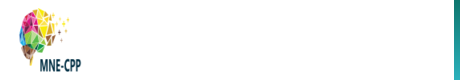
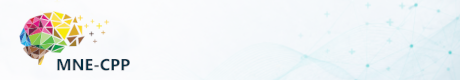
FIX: src/testframes resolve sts_cluster OOB and dsp_csd hang
* test_sts_cluster: testClusterPermutation* used (1 x nSpace) matrices
  but StatsCluster::permutationTest expects (nChannels x nTimes) where
  nChannels matches the spatial adjacency dimension. The shape mismatch
  caused an Eigen DenseCoeffsBase row/col assert (SIGABRT) during BFS
  over spatial neighbors. Reshaped test data to (nSpace x 1).
* test_dsp_csd: DPSS multitaper computation is O(N^3) and very slow under
  --coverage instrumentation. Reduced nSamples in Multitaper* and
  FreqRangeFiltering subtests so the suite completes in reasonable time
  (was hitting > 600s and timing out on the coverage runner).

BUILD: refine installer banner/watermark visuals

* Replace banner.png and watermark.png with refined artwork supplied by
  the maintainer for the v2.2.0 IFW installer.

diff --git a/src/testframes/test_sts_cluster/test_sts_cluster.cpp b/src/testframes/test_sts_cluster/test_sts_cluster.cpp
@@ -333,14 +333,17 @@ void TestStsCluster::testCorrectionBounds()
 
 void TestStsCluster::testClusterPermutationBasic()
 {
-    // Two groups of 10 observations across 8 spatial points
+    // Two groups of 10 observations across 8 spatial points.
+    // StatsCluster::permutationTest expects each observation as a
+    // (nChannels x nTimes) matrix where nChannels matches the
+    // adjacency dimension. We use nTimes=1 here.
     int nObs = 10;
     int nSpace = 8;
 
     QVector<MatrixXd> dataA, dataB;
     for (int i = 0; i < nObs; ++i) {
-        dataA.append(MatrixXd::Random(1, nSpace));
-        dataB.append(MatrixXd::Random(1, nSpace) + MatrixXd::Constant(1, nSpace, 3.0));
+        dataA.append(MatrixXd::Random(nSpace, 1));
+        dataB.append(MatrixXd::Random(nSpace, 1) + MatrixXd::Constant(nSpace, 1, 3.0));
     }
 
     SparseMatrix<int> adj = createChainAdjacency(nSpace);
@@ -349,7 +352,7 @@ void TestStsCluster::testClusterPermutationBasic()
         dataA, dataB, adj, 100, 0.05, 0.05);
 
     // Result should have the right dimensions
-    QCOMPARE(static_cast<int>(result.matTObs.cols()), nSpace);
+    QCOMPARE(static_cast<int>(result.matTObs.rows()), nSpace);
     // Cluster threshold should be set
     QVERIFY(result.clusterThreshold > 0);
 }
@@ -364,8 +367,8 @@ void TestStsCluster::testClusterPermutationNullDistribution()
 
     QVector<MatrixXd> dataA, dataB;
     for (int i = 0; i < nObs; ++i) {
-        dataA.append(MatrixXd::Random(1, nSpace));
-        dataB.append(MatrixXd::Random(1, nSpace));
+        dataA.append(MatrixXd::Random(nSpace, 1));
+        dataB.append(MatrixXd::Random(nSpace, 1));
     }
 
     SparseMatrix<int> adj = createChainAdjacency(nSpace);
@@ -392,11 +395,11 @@ void TestStsCluster::testClusterPermutationStrongEffect()
 
     QVector<MatrixXd> dataA, dataB;
     for (int i = 0; i < nObs; ++i) {
-        MatrixXd a = MatrixXd::Random(1, nSpace) * 0.1;
-        MatrixXd b = MatrixXd::Random(1, nSpace) * 0.1;
-        // Add strong effect at positions 2-5
+        MatrixXd a = MatrixXd::Random(nSpace, 1) * 0.1;
+        MatrixXd b = MatrixXd::Random(nSpace, 1) * 0.1;
+        // Add strong effect at spatial positions 2-5
         for (int j = 2; j <= 5; ++j) {
-            b(0, j) += 10.0;
+            b(j, 0) += 10.0;
         }
         dataA.append(a);
         dataB.append(b);

diff --git a/src/testframes/test_dsp_csd/test_dsp_csd.cpp b/src/testframes/test_dsp_csd/test_dsp_csd.cpp
@@ -104,7 +104,8 @@ void TestDspCsd::initTestCase()
 void TestDspCsd::testMultitaperBasic()
 {
     int nChannels = 3;
-    int nSamples = 1024;
+    // DPSS solve is slow under coverage instrumentation; keep N modest
+    int nSamples = 256;
     double sfreq = 500.0;
     MatrixXd data = MatrixXd::Random(nChannels, nSamples);
 
@@ -120,7 +121,8 @@ void TestDspCsd::testMultitaperBasic()
 void TestDspCsd::testMultitaperDimensions()
 {
     int nChannels = 4;
-    int nSamples = 2048;
+    // DPSS computation is O(N^3); keep nSamples modest to keep tests fast
+    int nSamples = 512;
     double sfreq = 1000.0;
     MatrixXd data = MatrixXd::Random(nChannels, nSamples);
 
@@ -144,7 +146,7 @@ void TestDspCsd::testMultitaperHermitian()
 {
     // CSD matrix should be Hermitian: CSD(i,j) = conj(CSD(j,i))
     int nChannels = 3;
-    int nSamples = 1024;
+    int nSamples = 256;
     double sfreq = 500.0;
     MatrixXd data = MatrixXd::Random(nChannels, nSamples);
 
@@ -165,7 +167,7 @@ void TestDspCsd::testMultitaperDiagonalPositive()
 {
     // Auto-spectral density (diagonal) should be real and non-negative
     int nChannels = 3;
-    int nSamples = 1024;
+    int nSamples = 256;
     double sfreq = 500.0;
     MatrixXd data = MatrixXd::Random(nChannels, nSamples);
 
@@ -269,7 +271,8 @@ void TestDspCsd::testMorletDimensions()
 void TestDspCsd::testFreqRangeFiltering()
 {
     int nChannels = 2;
-    int nSamples = 2048;
+    // Keep nSamples small to avoid slow DPSS solve
+    int nSamples = 512;
     double sfreq = 1000.0;
     MatrixXd data = MatrixXd::Random(nChannels, nSamples);
 
